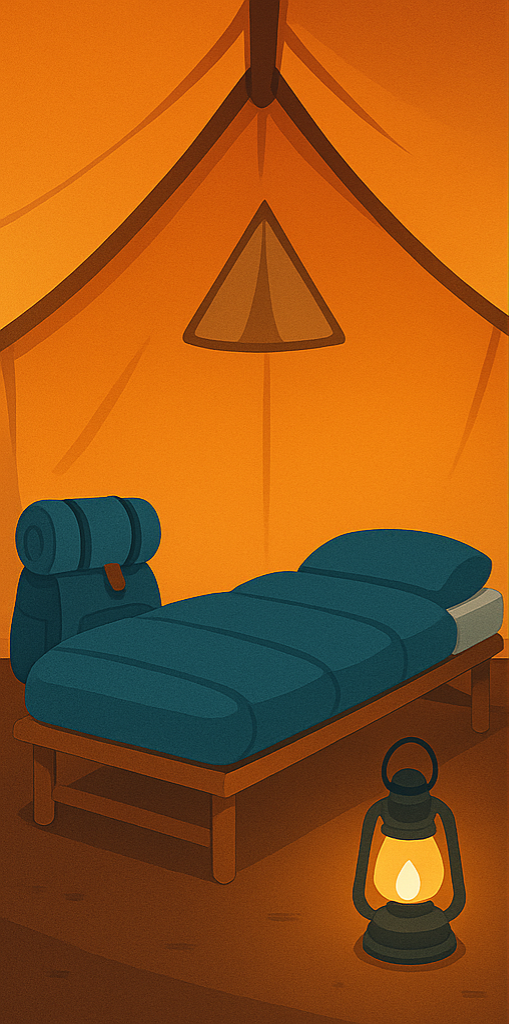
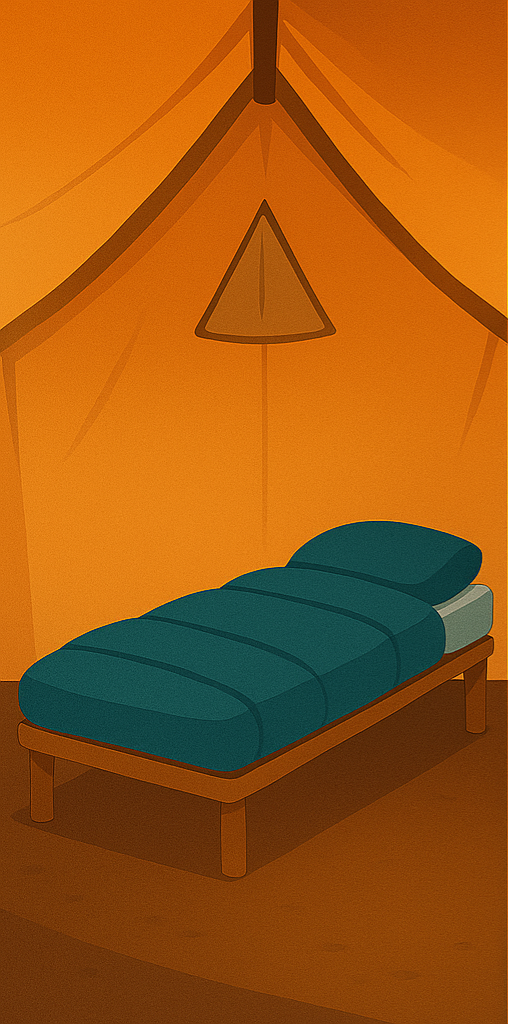
UI: complete tent page with purchasable items

diff --git a/lib/shop_item.dart b/lib/shop_item.dart
@@ -22,10 +22,15 @@ class ShopItem {
 
   Widget build(BuildContext context) {
     final screenHeight = MediaQuery.of(context).size.height;
+    final screenWidth = MediaQuery.of(context).size.width;
     return Positioned(
-      top: screenHeight * x,
-      left: screenHeight * y,
-      child: Image.asset(imagepath, width: w, height: h),
+      top: screenHeight * y,
+      left: screenWidth * x,
+      child: Image.asset(
+        imagepath,
+        width: screenHeight * w,
+        height: screenHeight * h,
+      ),
     );
   }
 }
@@ -35,80 +40,80 @@ final items = [
     id: 1,
     name: 'campbag',
     imagepath: 'assets/items/campbag.png',
-    price: 100,
-    x: 0.1,
-    y: 0.1,
-    w: 30,
-    h: 30,
+    price: 400,
+    x: 0.02,
+    y: 0.68,
+    w: 0.2,
+    h: 0.2,
   ),
   ShopItem(
     id: 2,
     name: 'chair',
     imagepath: 'assets/items/chair.png',
-    price: 100,
-    x: 0.2,
-    y: 0.1,
-    w: 30,
-    h: 30,
+    price: 500,
+    x: 0.55,
+    y: 0.55,
+    w: 0.25,
+    h: 0.25,
   ),
   ShopItem(
     id: 3,
     name: 'clock',
     imagepath: 'assets/items/clock.png',
-    price: 100,
-    x: 0.3,
-    y: 0.1,
-    w: 30,
-    h: 30,
+    price: 400,
+    x: 0.57,
+    y: 0.25,
+    w: 0.12,
+    h: 0.12,
   ),
   ShopItem(
     id: 4,
-    name: 'lamp',
-    imagepath: 'assets/items/lamp.png',
-    price: 100,
-    x: 0.4,
-    y: 0.1,
-    w: 30,
-    h: 30,
+    name: 'plant',
+    imagepath: 'assets/items/plant.png',
+    price: 200,
+    x: 0.74,
+    y: 0.63,
+    w: 0.15,
+    h: 0.15,
   ),
   ShopItem(
     id: 5,
-    name: 'plant',
-    imagepath: 'assets/items/plant.png',
-    price: 100,
-    x: 0.7,
-    y: 0.1,
-    w: 30,
-    h: 30,
+    name: 'books',
+    imagepath: 'assets/items/books.png',
+    price: 200,
+    x: 0.62,
+    y: 0.67,
+    w: 0.15,
+    h: 0.15,
   ),
   ShopItem(
     id: 6,
     name: 'painting',
     imagepath: 'assets/items/painting.png',
-    price: 100,
-    x: 0.8,
-    y: 0.1,
-    w: 30,
-    h: 30,
+    price: 500,
+    x: 0.07,
+    y: 0.31,
+    w: 0.19,
+    h: 0.19,
   ),
   ShopItem(
     id: 7,
-    name: 'books',
-    imagepath: 'assets/items/books.png',
-    price: 100,
-    x: 0.5,
-    y: 0.1,
-    w: 30,
-    h: 30,
+    name: 'lamp',
+    imagepath: 'assets/items/lamp.png',
+    price: 300,
+    x: 0.48,
+    y: 0.77,
+    w: 0.17,
+    h: 0.17,
   ),
   ShopItem(
     id: 8,
     name: 'duck',
     imagepath: 'assets/items/duck.png',
-    price: 100,
-    x: 0.6,
-    y: 0.1,
-    w: 30,
-    h: 30,
+    price: 10000,
+    x: 0.40,
+    y: 0.50,
+    w: 0.12,
+    h: 0.12,
   ),
 ];

diff --git a/lib/tent_page.dart b/lib/tent_page.dart
@@ -15,13 +15,14 @@ class _TentPageState extends State<TentPage> {
   @override
   void initState() {
     super.initState();
-    //_loadInitialSleepState();
+    _loadInitialSleepState();
   }
 
   Future<void> _loadInitialSleepState() async {
     List<int> status = await SleepStorage.loadShopItemStates();
     setState(() {
       _status = status;
+      // _status = [1, 3, 4, 5, 6, 7, 8];
     });
   }
 
@@ -34,7 +35,7 @@ class _TentPageState extends State<TentPage> {
         // Background image
         Image.asset(
           'assets/tent.png',
-          fit: BoxFit.cover,
+          fit: BoxFit.fill,
           height: MediaQuery.of(context).size.height,
           width: MediaQuery.of(context).size.width,
         ),
@@ -53,8 +54,9 @@ class _TentPageState extends State<TentPage> {
             ),
           ),
         ),
+
         for (var item in items)
-          if (_status.length > item.id && _status.contains(item.id))
+          if (_status.contains(item.id) && item.name != 'chair')
             item.build(context),
       ],
     );
